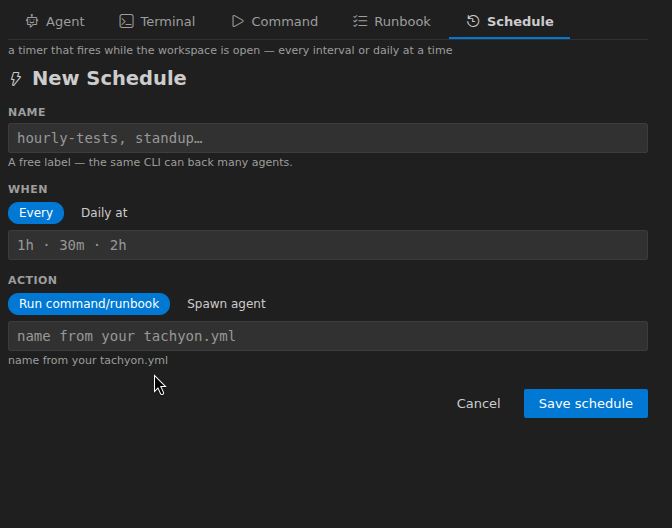
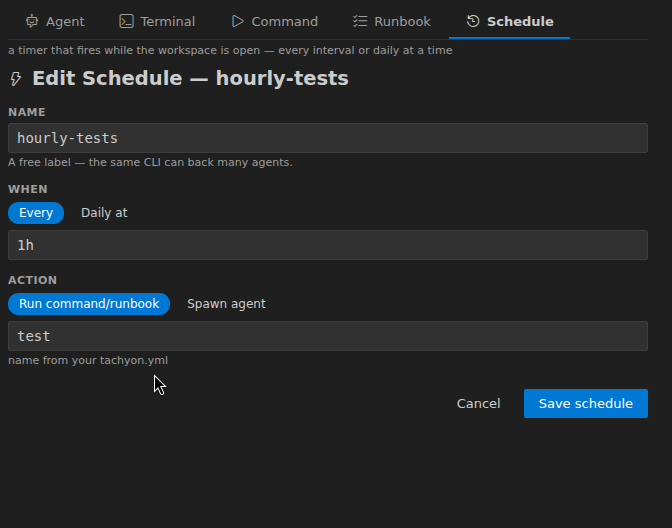
chore(screenshots): complete the rig — every committed asset is reproducible
commands.png / pins.png / schedules.png / walkthrough.png and the Schedule
studio tab were captured ad-hoc and had no scene, so the rig couldn't
reproduce them. Close that gap:

- runner.js: new commands / pins / schedules / walkthrough scenes, plus a
  Schedule tab in the studio scene (studio-schedule.png).
- capture.sh: isolate each scene — wipe the shared tmux socket and the
  example's writable state (.tachyon/pins.json, schedules-pending.json) before
  launch, so a scene's sidebar reflects only what it sets up. Sidebar view
  panes are fixed-height bands, so section crops sit at a stable Y.
- crop.sh: crops for the new sections (Schedules / Commands / Pins bands) and
  the walkthrough full-window.
- extension.ts: two test-only hooks the pins/schedules scenes need —
  tachyon._pin (create/complete a pin) and tachyon._propose (create a pending
  schedule proposal), alongside the existing _-prefixed automation surface.

Regenerated assets from the current build: the Schedules section now appears,
the lineage shot shows the worker->researcher nesting expanded (the auto-expand
fix), and the studio grid carries the 5th Schedule tab.

diff --git a/scripts/screenshots/runner.js b/scripts/screenshots/runner.js
@@ -4,7 +4,7 @@
  * marker files in $SHOTDIR (writes `ready`, waits for `done`) so an outside
  * ffmpeg grabs the frame at the right moment.
  *
- * Scenes (env SCENE): hero | observability | lineage | studio | multiroot | inspector
+ * Scenes (env SCENE): hero | observability | lineage | studio | multiroot | inspector | commands | pins | schedules | walkthrough
  * Run one per invocation (see capture.sh). Targets the committed examples.
  */
 const vscode = require("vscode");
@@ -82,6 +82,7 @@ exports.run = async function run() {
       ["terminal", () => vscode.commands.executeCommand("tachyon.editAgentStudioItem", { agentName: "dev" })],
       ["command", () => vscode.commands.executeCommand("tachyon.editCommandStudioItem", { commandName: "test" })],
       ["runbook", () => vscode.commands.executeCommand("tachyon.editRunbookStudioItem", { runbookName: "ship" })],
+      ["schedule", () => vscode.commands.executeCommand("tachyon.editScheduleStudioItem", { scheduleName: "hourly-tests" })],
     ];
     for (const [name, open] of tabs) {
       await vscode.commands.executeCommand("workbench.action.closeAllEditors");
@@ -117,6 +118,39 @@ exports.run = async function run() {
     await vscode.commands.executeCommand("tachyon.inspectServer");
     await sleep(3500); await tidy();
     await frame("inspector");
+  } else if (SCENE === "commands") {
+    await vscode.commands.executeCommand("tachyon._runCommand", "lint", hash);
+    await sleep(1500);
+    await vscode.commands.executeCommand("tachyon._runCommand", "test", hash);
+    await sleep(2500);
+    try { await vscode.commands.executeCommand("tachyon._runRunbook", "ship", hash); } catch {}
+    await sleep(3000);
+    await vscode.commands.executeCommand("tachyon._commandTick", hash);
+    await vscode.commands.executeCommand("tachyon.refreshViews");
+    await vscode.commands.executeCommand("tachyonCommands.focus");
+    await sleep(1500); await tidy();
+    await frame("commands");
+  } else if (SCENE === "pins") {
+    await vscode.commands.executeCommand("tachyon._pin", "auth uses a deprecated JWT lib — flag for upgrade", "codex", false, hash);
+    await vscode.commands.executeCommand("tachyon._pin", "POST /missions has no input validation", "claude", false, hash);
+    await vscode.commands.executeCommand("tachyon._pin", "added rate-limit middleware to /api", "claude", true, hash);
+    await sleep(800);
+    await vscode.commands.executeCommand("tachyon.refreshViews");
+    await vscode.commands.executeCommand("tachyonPins.focus");
+    await sleep(1500); await tidy();
+    await frame("pins");
+  } else if (SCENE === "schedules") {
+    await vscode.commands.executeCommand("tachyon._togglePause", "hourly-tests", hash);
+    await vscode.commands.executeCommand("tachyon._propose", "nightly-audit", { at: "02:00", run: "test" }, "run the suite nightly to catch drift before standup", hash);
+    await sleep(800);
+    await vscode.commands.executeCommand("tachyon.refreshViews");
+    await vscode.commands.executeCommand("tachyonSchedules.focus");
+    await sleep(1500); await tidy();
+    await frame("schedules");
+  } else if (SCENE === "walkthrough") {
+    await vscode.commands.executeCommand("tachyon.getStarted");
+    await sleep(4000); await tidy();
+    await frame("walkthrough");
   }
 
   try { await vscode.commands.executeCommand("tachyon.stopAll"); } catch {}

diff --git a/src/extension.ts b/src/extension.ts
@@ -4,7 +4,7 @@ import fs from "node:fs";
 import { doctor, TmuxService, SESSION_PREFIX, SOCKET_NAME } from "./tmux/TmuxService.js";
 import { subtreeCpuTicks } from "./attention/cpu.js";
 import { classifySession } from "./inspector/classify.js";
-import { CONFIG_FILENAMES, inferKind } from "./config/loadConfig.js";
+import { CONFIG_FILENAMES, inferKind, type ScheduleDef } from "./config/loadConfig.js";
 import { addAgent, cloneAgent, deleteAgent, renameAgent, agentEntryLine, deleteCommand, commandEntryLine, deleteRunbook, runbookEntryLine, scheduleEntryLine } from "./config/YamlConfigEditor.js";
 import { openAgentStudio, type StudioSubmit } from "./webview/AgentForm.js";
 import { openServerInspector } from "./webview/ServerInspector.js";
@@ -334,6 +334,13 @@ export async function activate(context: vscode.ExtensionContext): Promise<void> 
       return out;
     }),
     vscode.commands.registerCommand("tachyon._pins", (hash?: string) => byHash(hash)?.pinStore.list() ?? []),
+    vscode.commands.registerCommand("tachyon._pin", (text: string, by?: string, done?: boolean, hash?: string) => {
+      const ws = byHash(hash);
+      if (!ws) return;
+      const pin = ws.pinStore.create(text, by ?? "claude");
+      if (done) ws.pinStore.setDone(pin.id, true);
+      refreshAll();
+    }),
     vscode.commands.registerCommand("tachyon._upsertAgent", (submit: StudioSubmit, hash?: string) => byHash(hash)?.studioSubmit(submit)),
     vscode.commands.registerCommand("tachyon._runCommand", (name: string, hash?: string) => byHash(hash)?.commandRunner.run(name)),
     vscode.commands.registerCommand("tachyon._commands", (hash?: string) => byHash(hash)?.commandRunner.list() ?? []),
@@ -342,6 +349,10 @@ export async function activate(context: vscode.ExtensionContext): Promise<void> 
     vscode.commands.registerCommand("tachyon._runbooks", (hash?: string) => byHash(hash)?.runbookRunner.list() ?? []),
     vscode.commands.registerCommand("tachyon._schedules", (hash?: string) => byHash(hash)?.scheduler.list() ?? []),
     vscode.commands.registerCommand("tachyon._proposals", (hash?: string) => byHash(hash)?.proposals.list() ?? []),
+    vscode.commands.registerCommand("tachyon._propose", (name: string, schedule: ScheduleDef, reason?: string, hash?: string) => {
+      byHash(hash)?.proposals.create(name, schedule, "agent", reason);
+      refreshAll();
+    }),
     vscode.commands.registerCommand("tachyon._approveProposal", (id: string, hash?: string) => byHash(hash)?.approveProposal(id)),
     vscode.commands.registerCommand("tachyon._rejectProposal", (id: string, hash?: string) => byHash(hash)?.rejectProposal(id)),
     // ---- schedules (F23) ----
